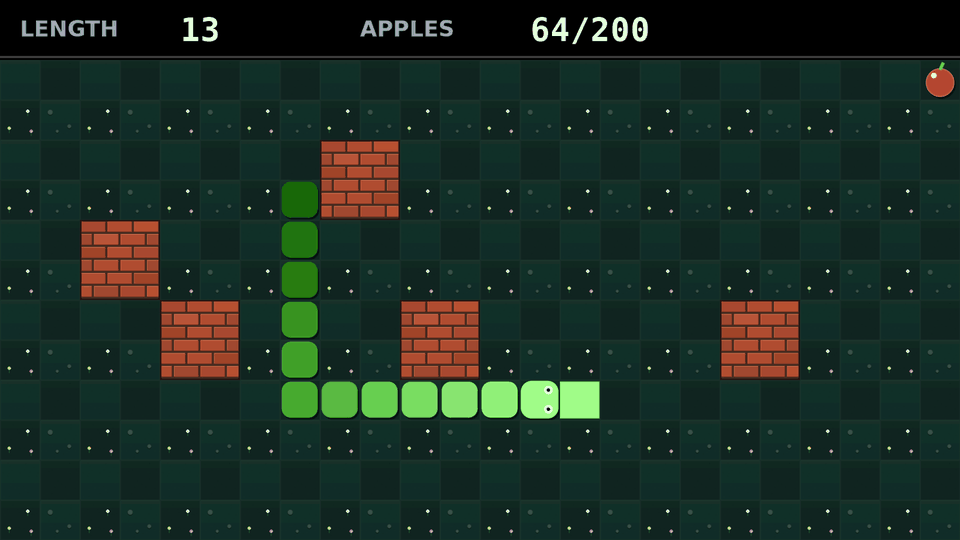
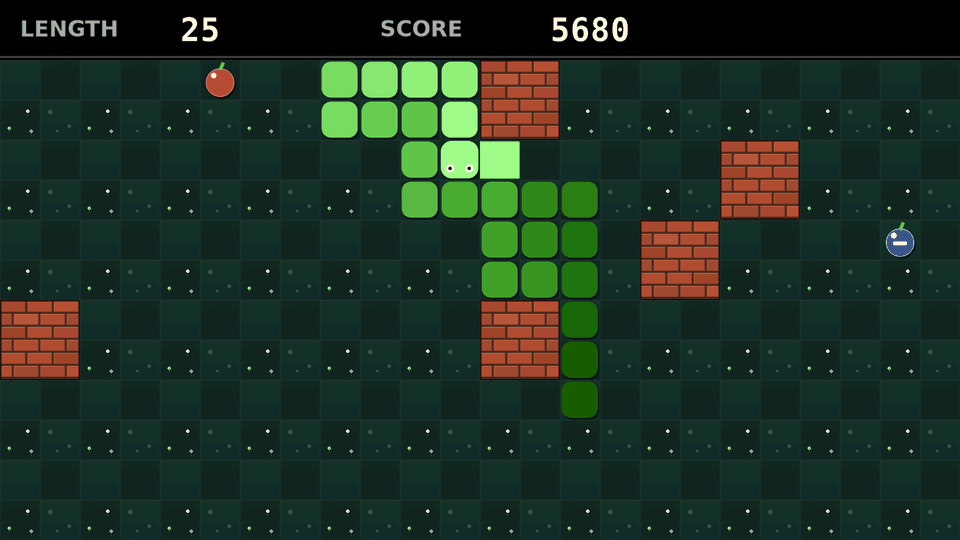
snake screenshot

diff --git a/README.md b/README.md
@@ -9,7 +9,7 @@ target (or about nine minutes at most), shows the result and moves on.
 
 | Game | Inspired by |
 |------|-------------|
-| `snake` | Snake with brick walls and two kinds of apples (grow or shrink), solved offline with a dynamic Hamiltonian cycle |
+| `snake` | Snake with brick walls and a choice of red (grow), blue (shrink) and golden (bonus) apples, solved offline with a dynamic Hamiltonian cycle |
 | `tetris` | Tetris, two-piece lookahead bot |
 | `bomber` | Bomberman |
 | `sonic` | Sonic the Hedgehog, three zones with scanline parallax |
